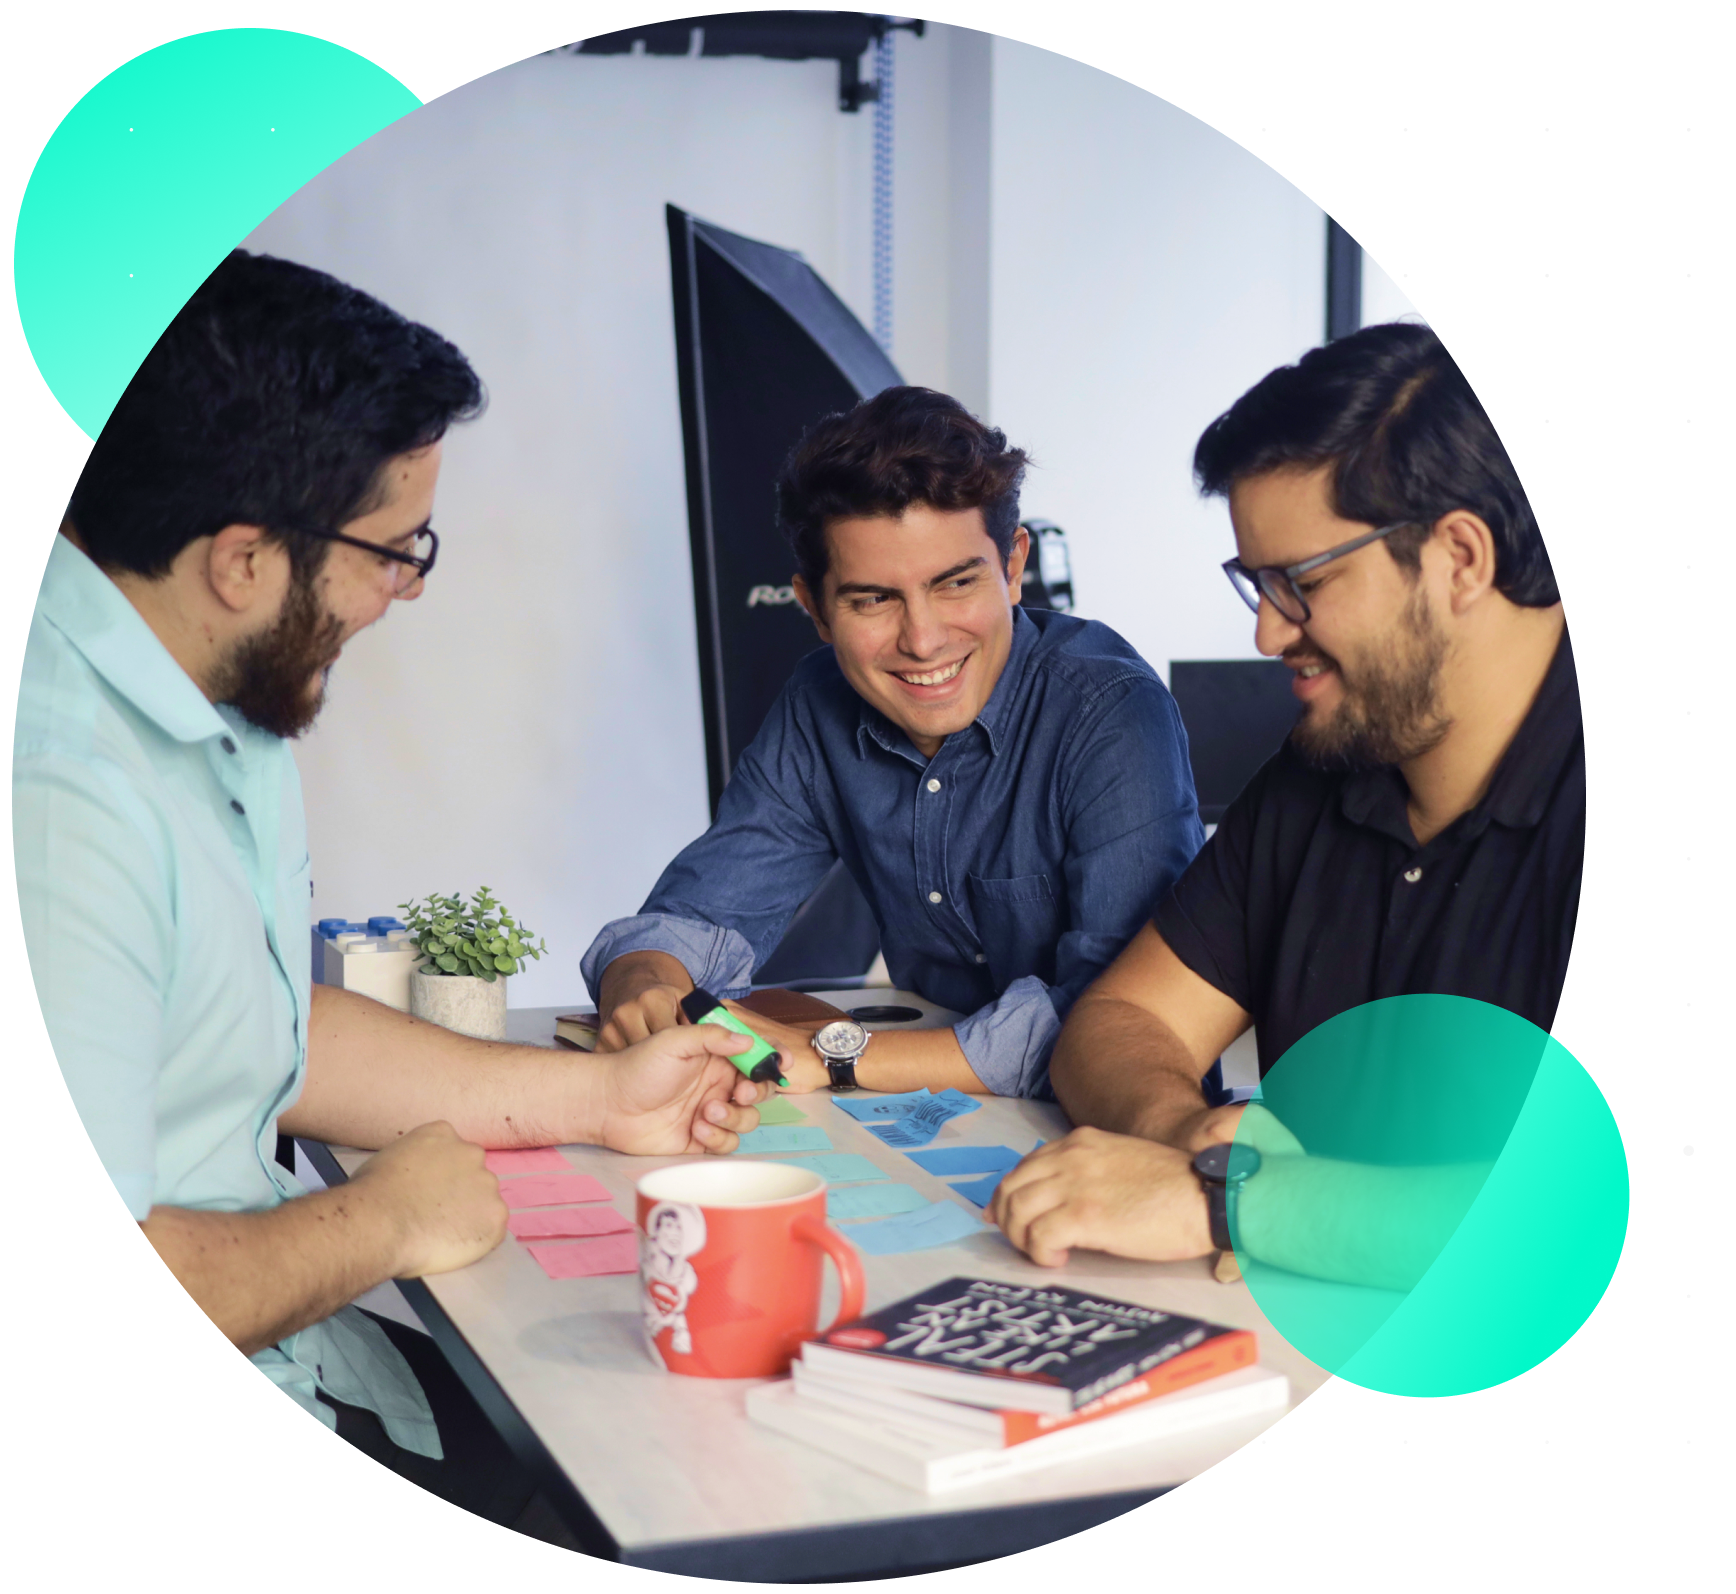
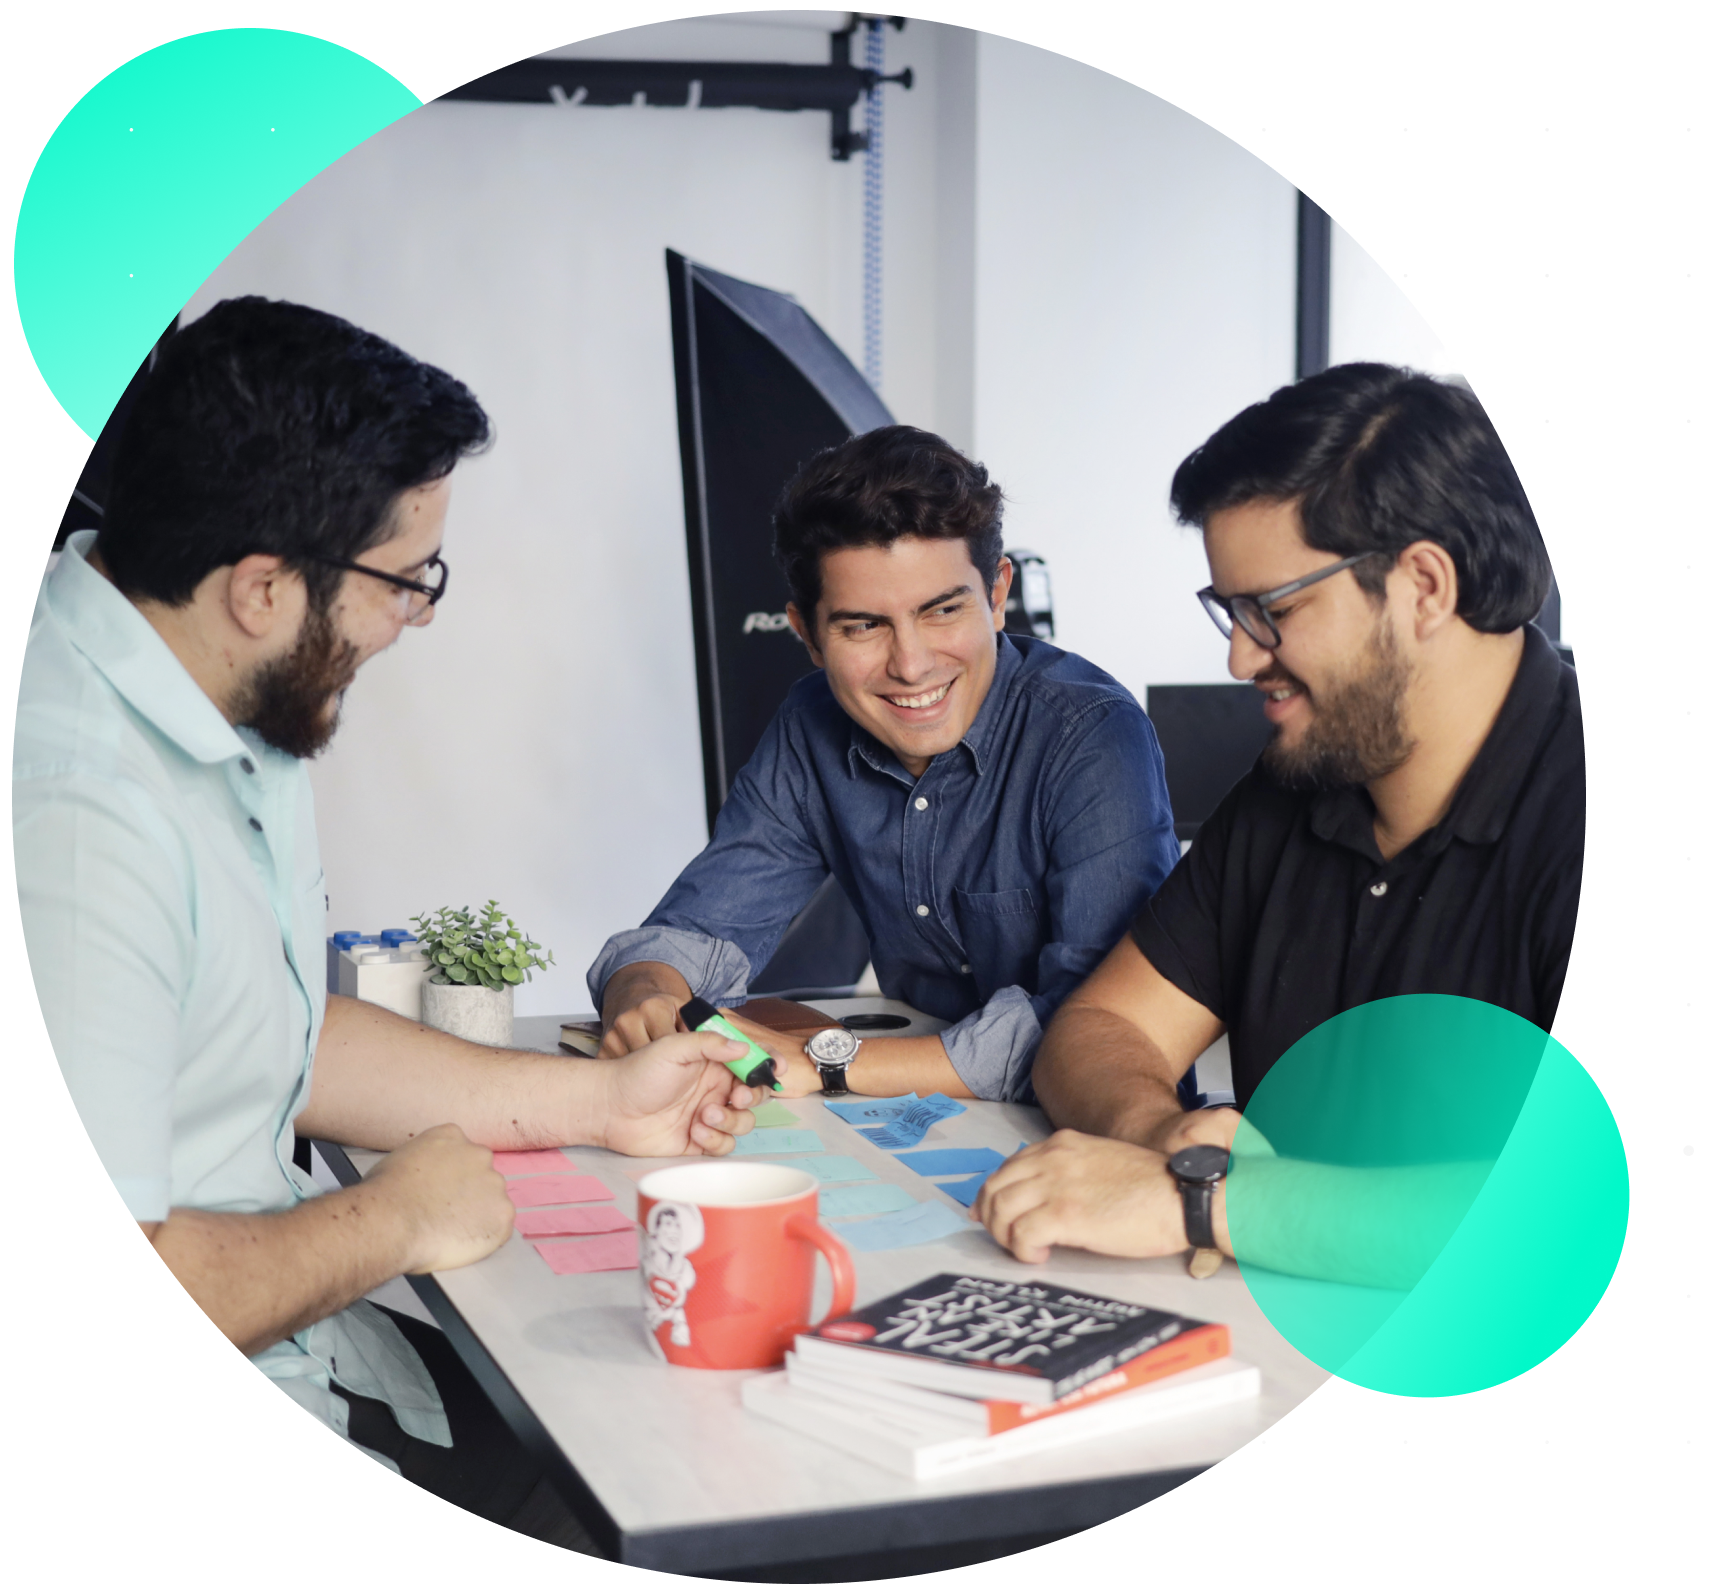
cambios

Changed region(s): [[0.0, 0.0, 0.9021, 1.0], [0.7154, 0.5841, 0.7465, 0.6148]]

diff --git a/styles.css b/styles.css
@@ -828,8 +828,8 @@ p{
     }
 
     .equipomobile2{
-        width: 906px;
-        height: 770px;
+        width: 918px;
+        height: 818px;
         background: url(img/javier_1200.png);
         background-size: cover;
         background-position: center;
